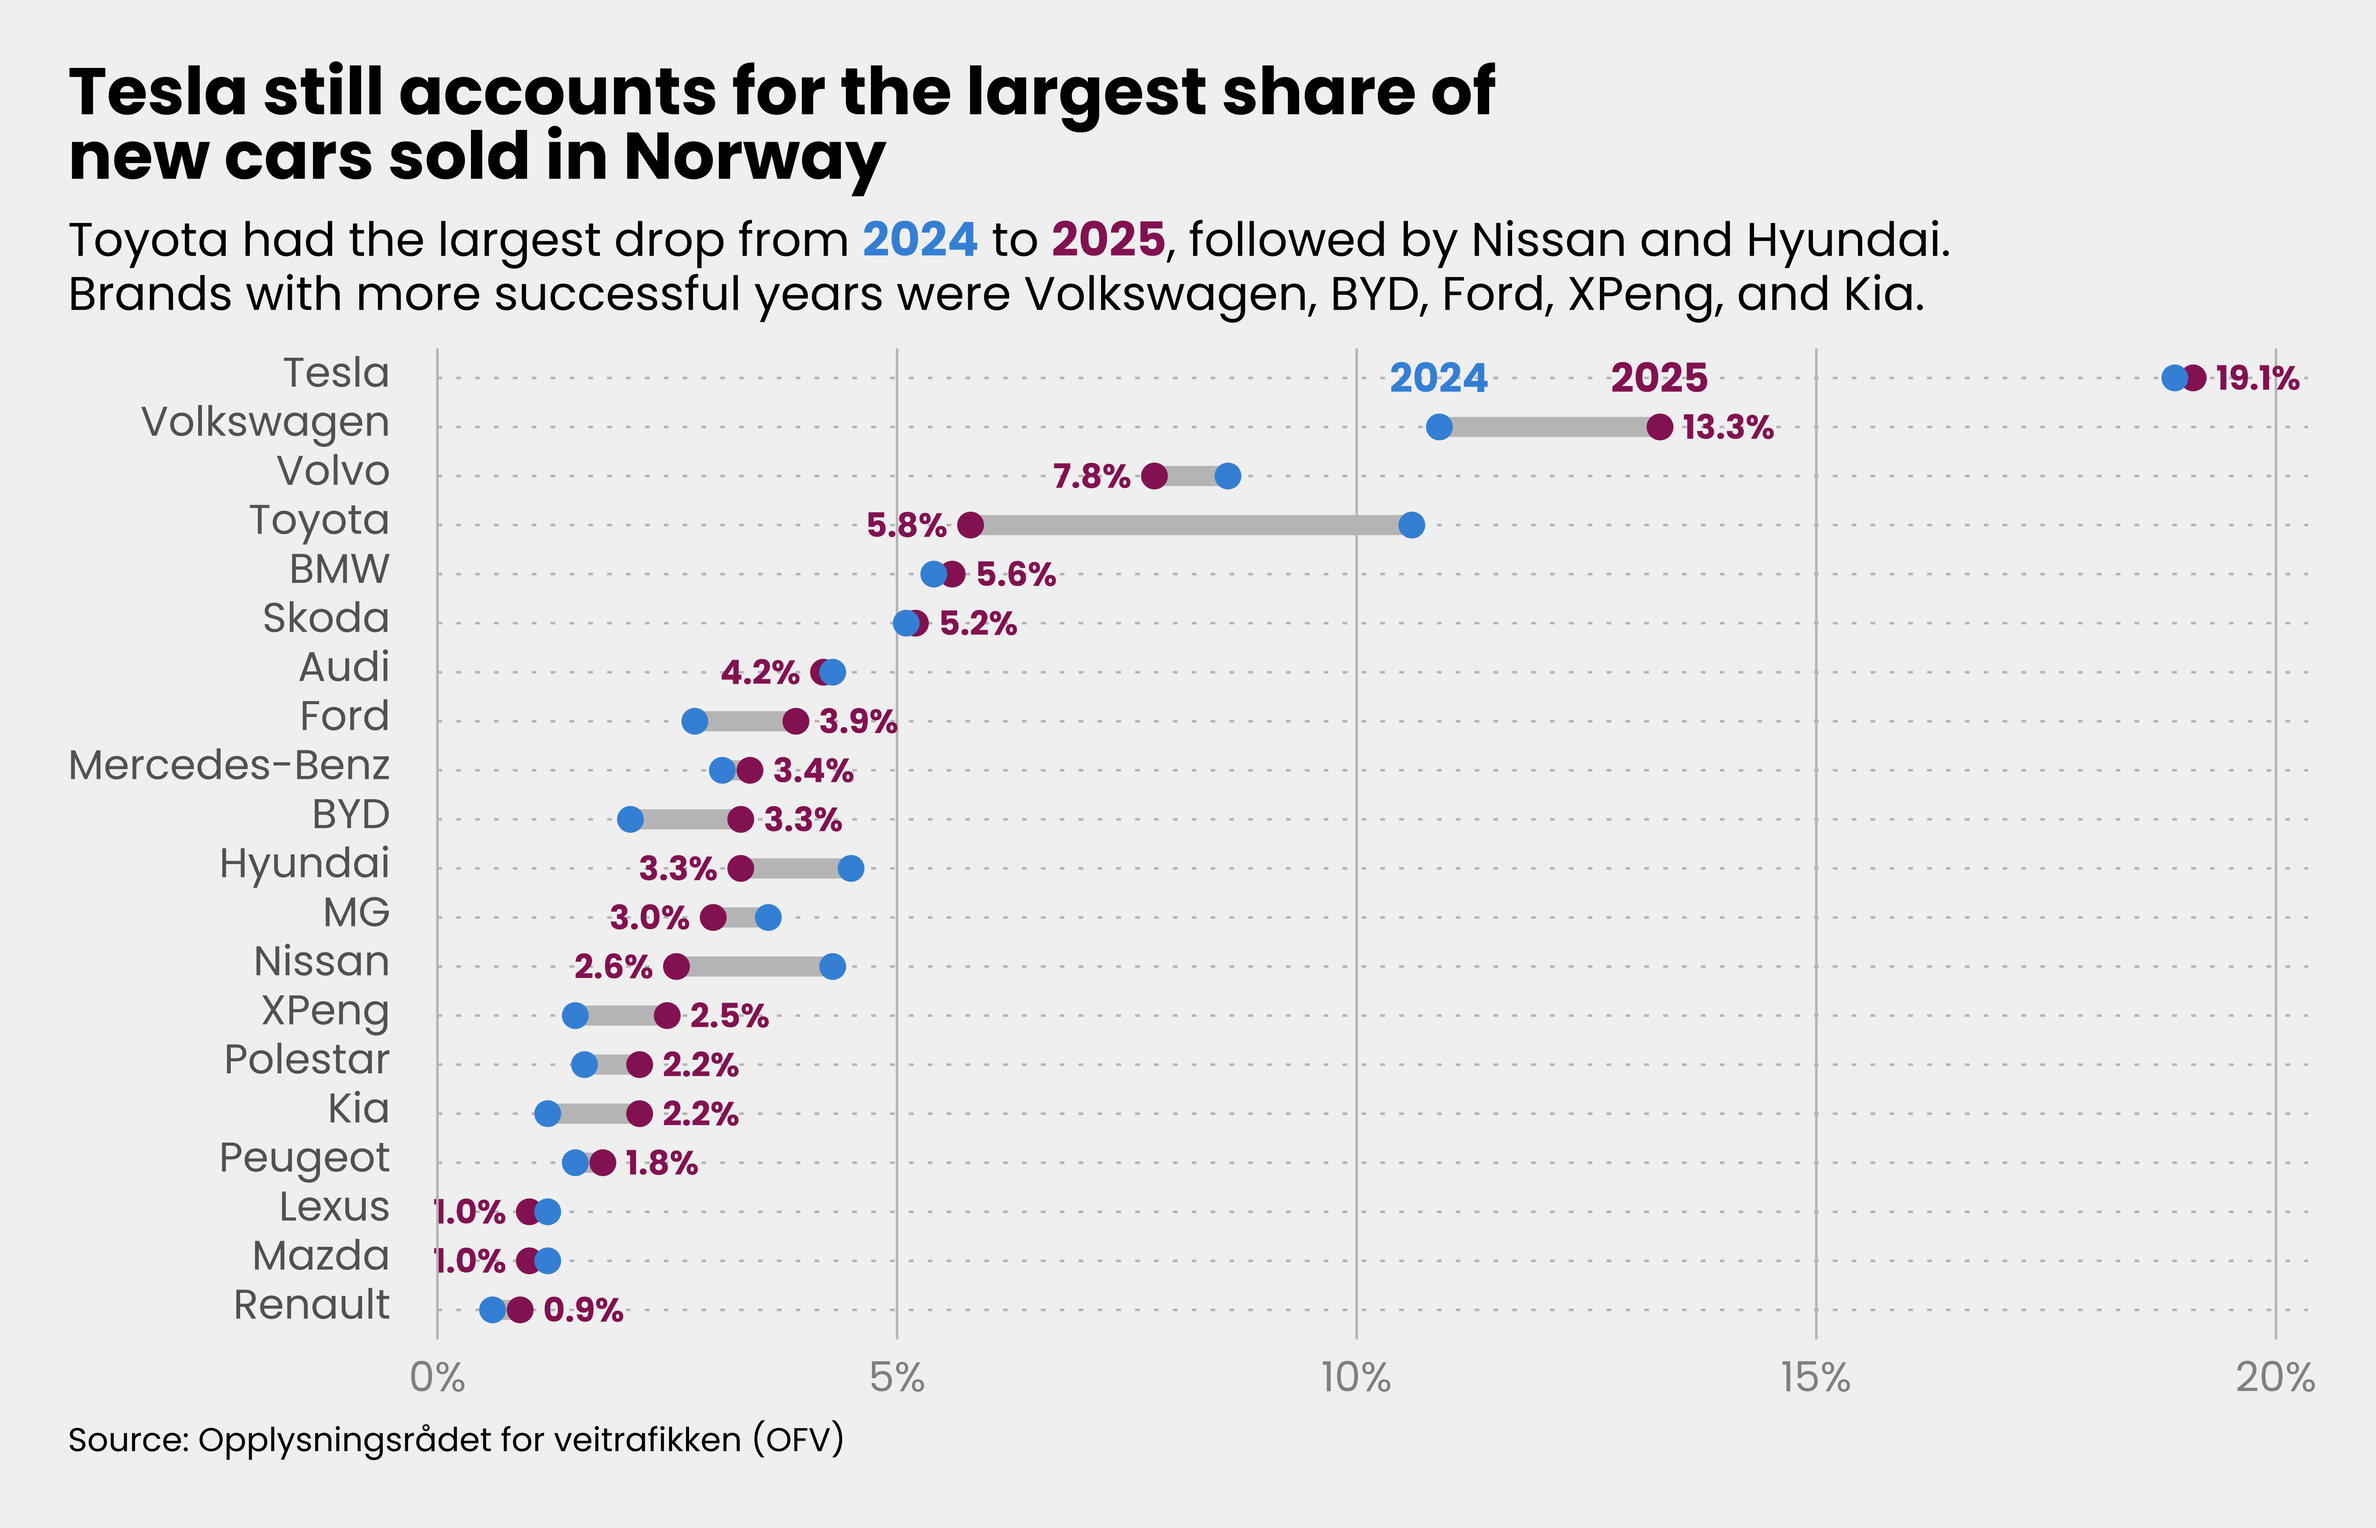
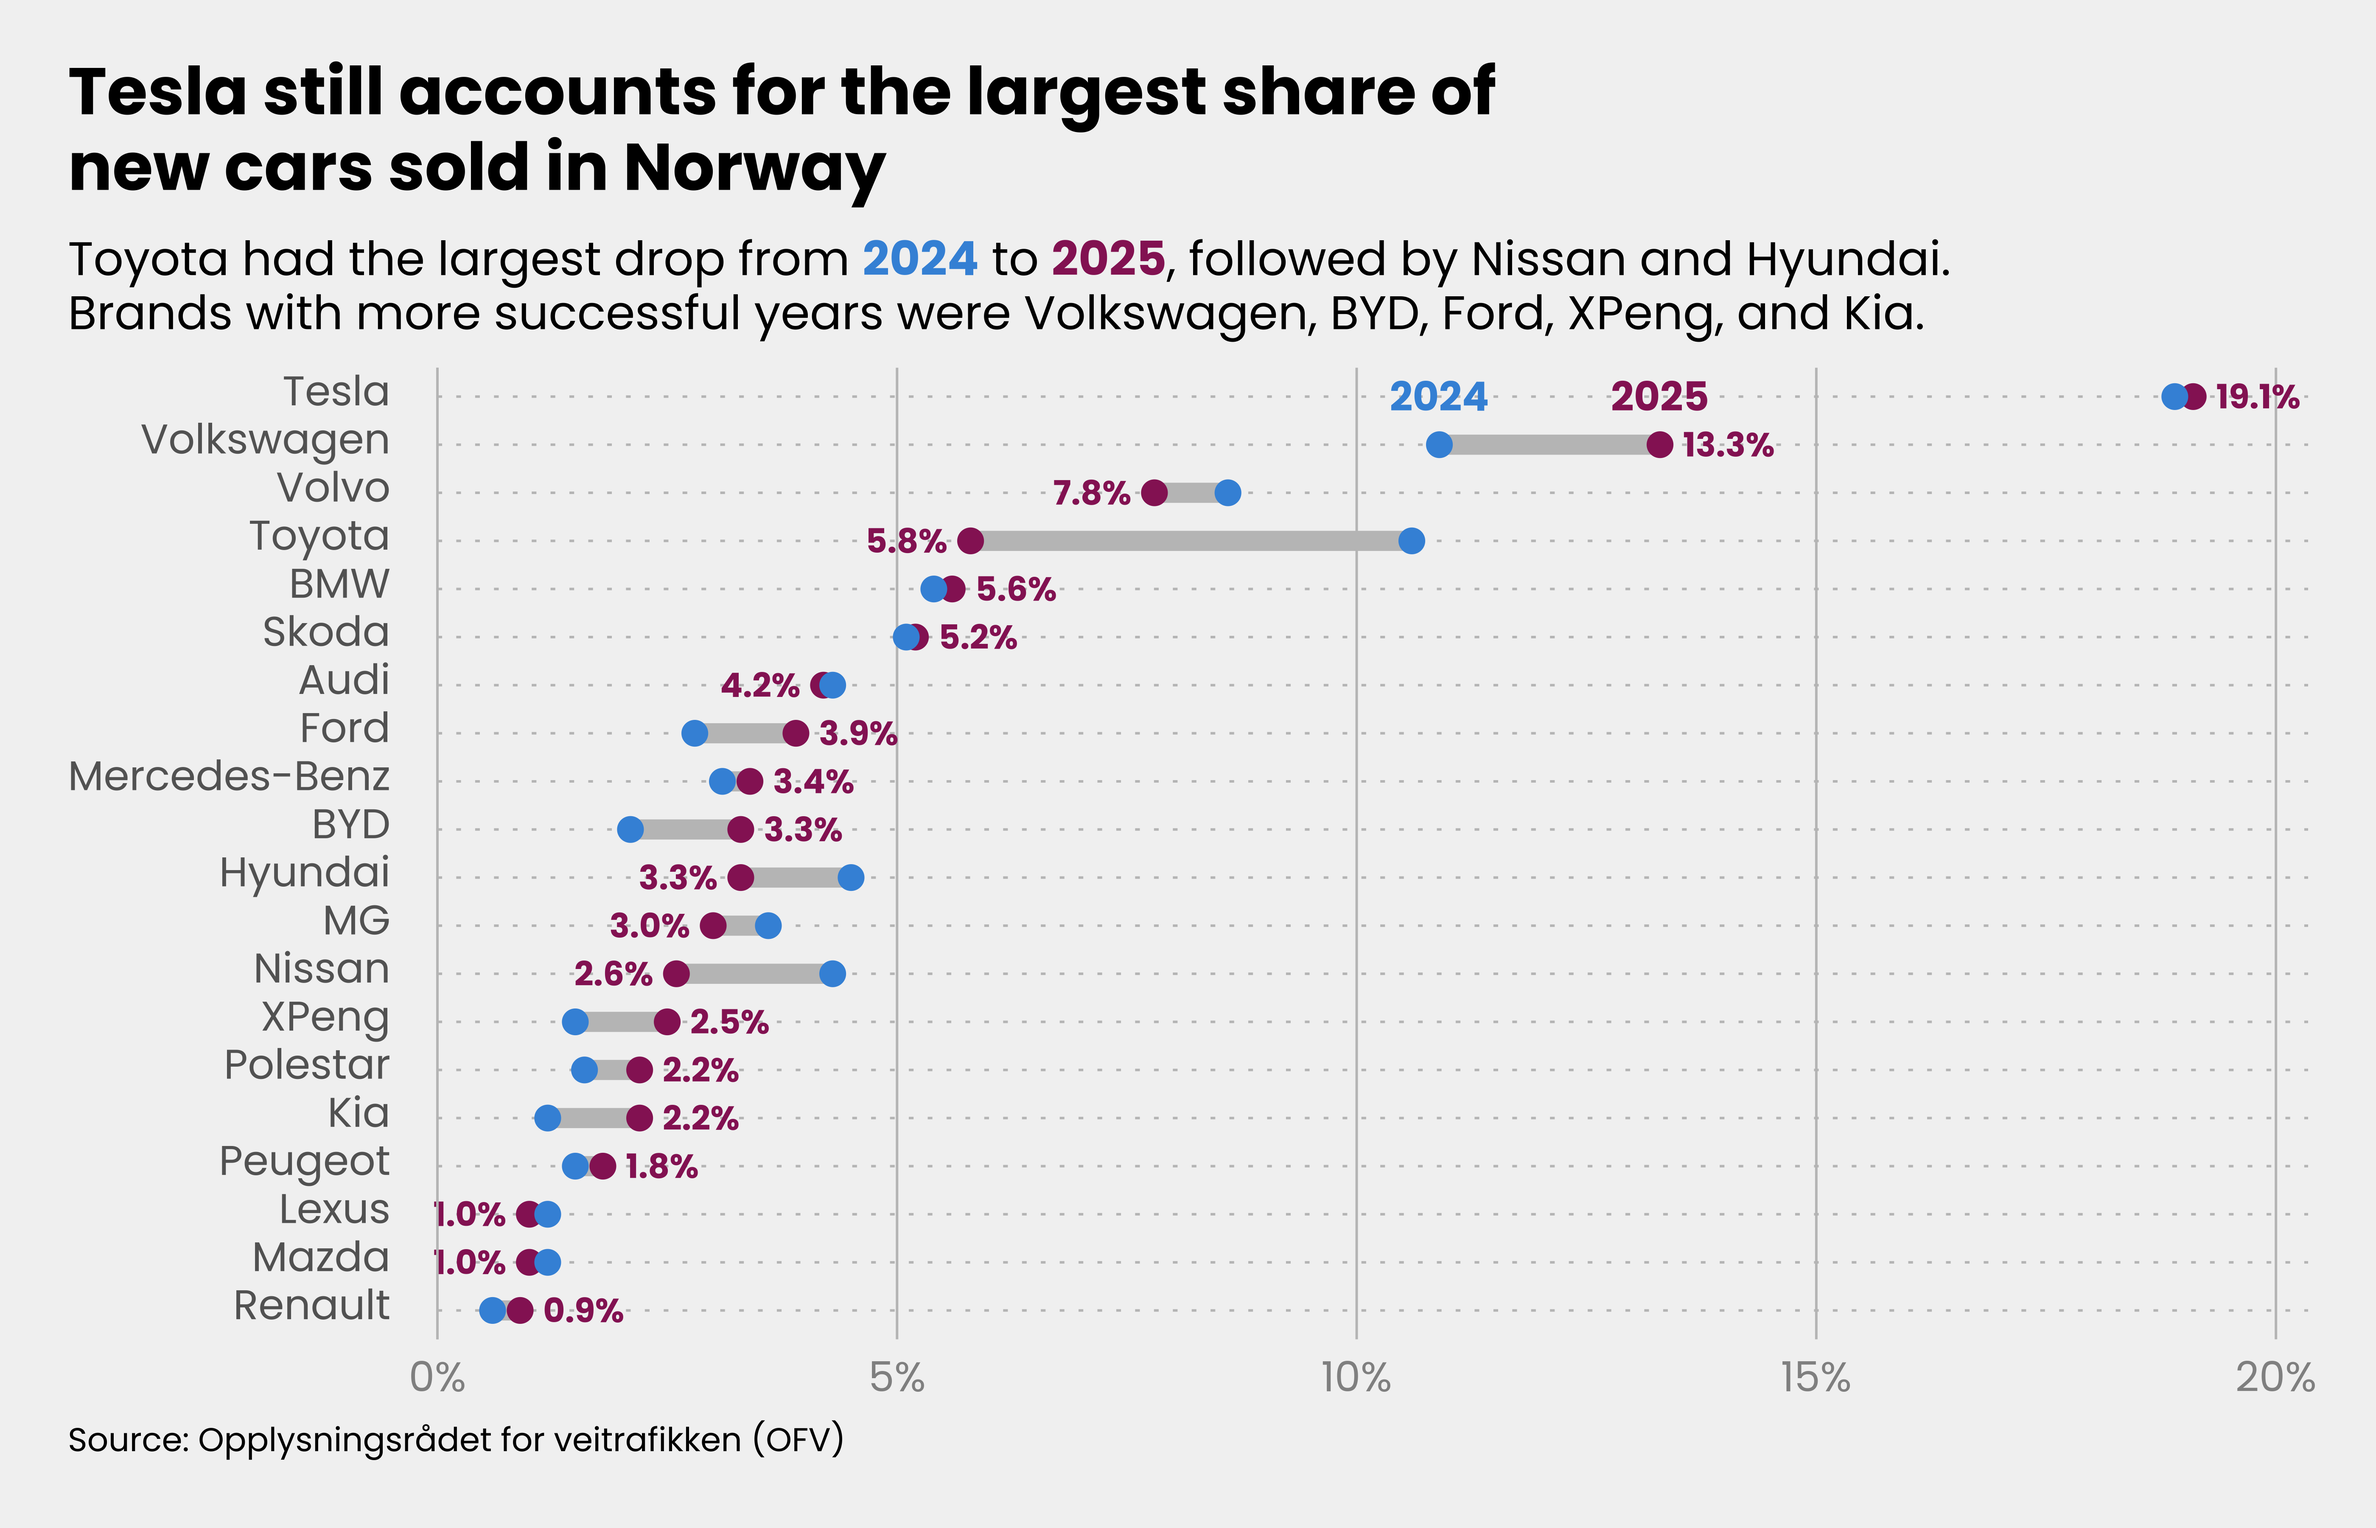
minor improvements

diff --git a/content/posts/2026-new-america-data-viz/index.md b/content/posts/2026-new-america-data-viz/index.md
@@ -166,7 +166,12 @@ For the final details we'll add a long list of specifications to the `theme()` f
 new_america_plot <- new_america_plot +
   theme_minimal(base_family = "poppins") +
   theme(
-    plot.title = element_markdown(face = "bold", size = 12),
+    plot.title = element_markdown(
+      face = "bold",
+      size = 12,
+      lineheight = 1.25,
+      margin = margin(b = 0.5, unit = "lines")
+    ),
     plot.title.position = "plot",
     plot.subtitle = element_markdown(size = 9, lineheight = 1.15),
     plot.caption = element_markdown(
@@ -412,7 +417,12 @@ df_oil_swf |>
   ) +
   theme_minimal(base_family = "poppins") +
   theme(
-    plot.title = element_markdown(face = "bold", size = 14),
+    plot.title = element_markdown(
+      face = "bold",
+      size = 14,
+      lineheight = 1.15,
+      margin = margin(b = 0.5, unit = "lines")
+    ),
     plot.title.position = "plot",
     plot.subtitle = element_markdown(size = 10, lineheight = 1.15),
     plot.caption = element_markdown(
@@ -578,7 +588,12 @@ df_energy |>
   ) +
   theme_minimal(base_family = "poppins") +
   theme(
-    plot.title = element_markdown(face = "bold", size = 14),
+    plot.title = element_markdown(
+      face = "bold",
+      size = 14,
+      lineheight = 1.15,
+      margin = margin(b = 0.5, unit = "lines")
+    ),
     plot.title.position = "plot",
     plot.subtitle = element_markdown(size = 10, lineheight = 1.15),
     plot.caption = element_markdown(
@@ -707,7 +722,12 @@ df_energy |>
   coord_cartesian(clip = "off") +
   theme_minimal(base_family = "poppins") +
   theme(
-    plot.title = element_markdown(face = "bold", size = 14),
+    plot.title = element_markdown(
+      face = "bold",
+      size = 14,
+      lineheight = 1.15,
+      margin = margin(b = 0.5, unit = "lines")
+    ),
     plot.title.position = "plot",
     plot.subtitle = element_markdown(
       size = 10,
@@ -835,7 +855,12 @@ df_car_sales |>
   coord_cartesian(clip = "off") +
   theme_minimal(base_family = "poppins") +
   theme(
-    plot.title = element_markdown(face = "bold", size = 14),
+    plot.title = element_markdown(
+      face = "bold",
+      size = 14,
+      lineheight = 1.15,
+      margin = margin(b = 0.5, unit = "lines")
+    ),
     plot.title.position = "plot",
     plot.subtitle = element_markdown(size = 10, lineheight = 1.15),
     plot.caption = element_markdown(
@@ -943,7 +968,12 @@ readxl::read_excel(
   ) +
   theme_minimal(base_family = "poppins") +
   theme(
-    plot.title = element_markdown(face = "bold", size = 14),
+    plot.title = element_markdown(
+      face = "bold",
+      size = 14,
+      lineheight = 1.15,
+      margin = margin(b = 0.5, unit = "lines")
+    ),
     plot.title.position = "plot",
     plot.subtitle = element_markdown(size = 10, lineheight = 1.15),
     plot.caption = element_markdown(
